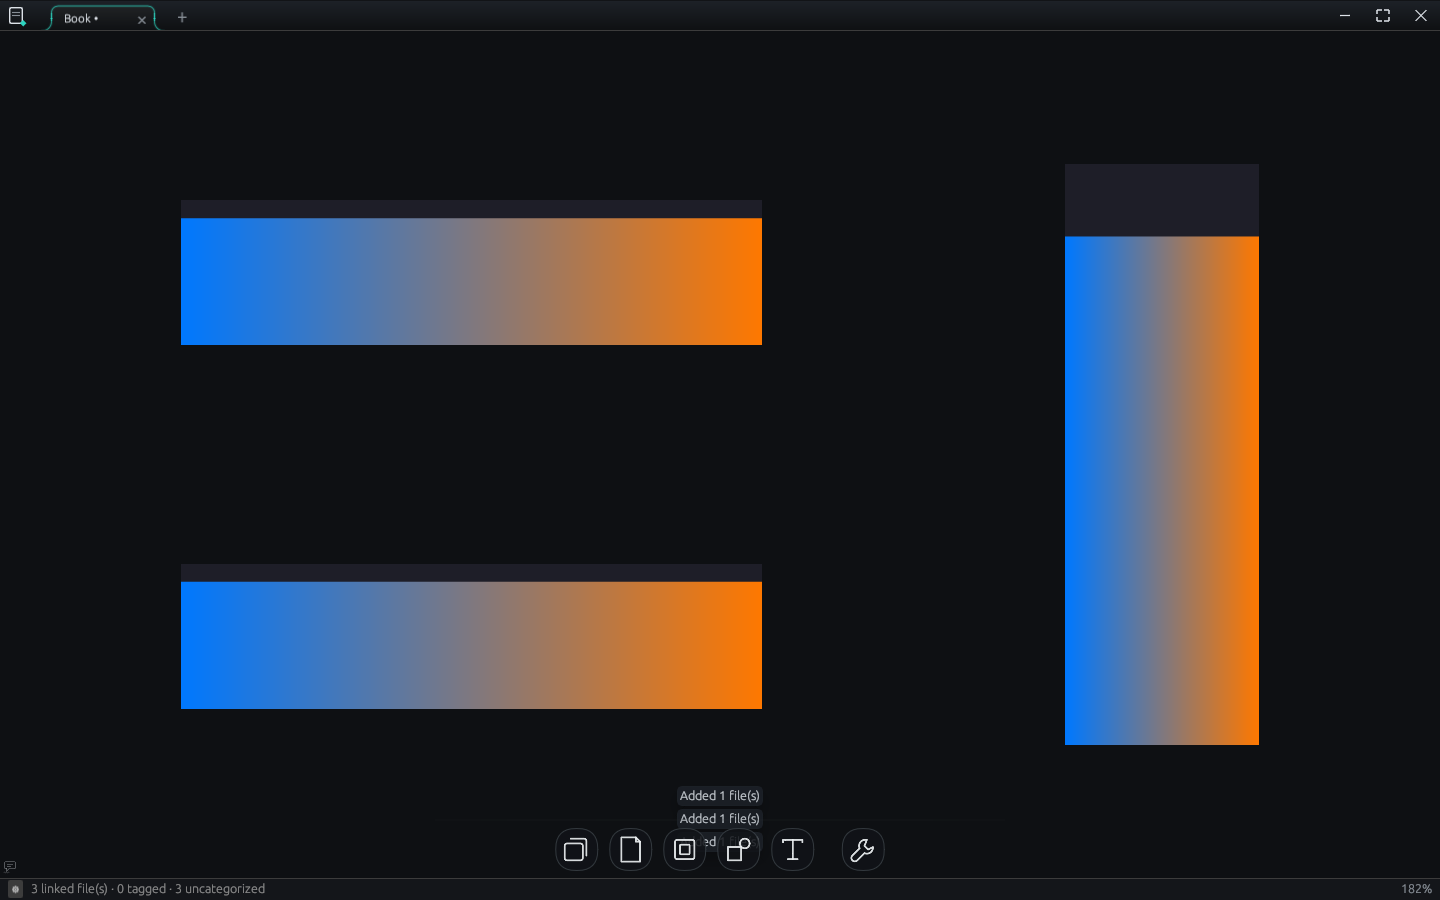
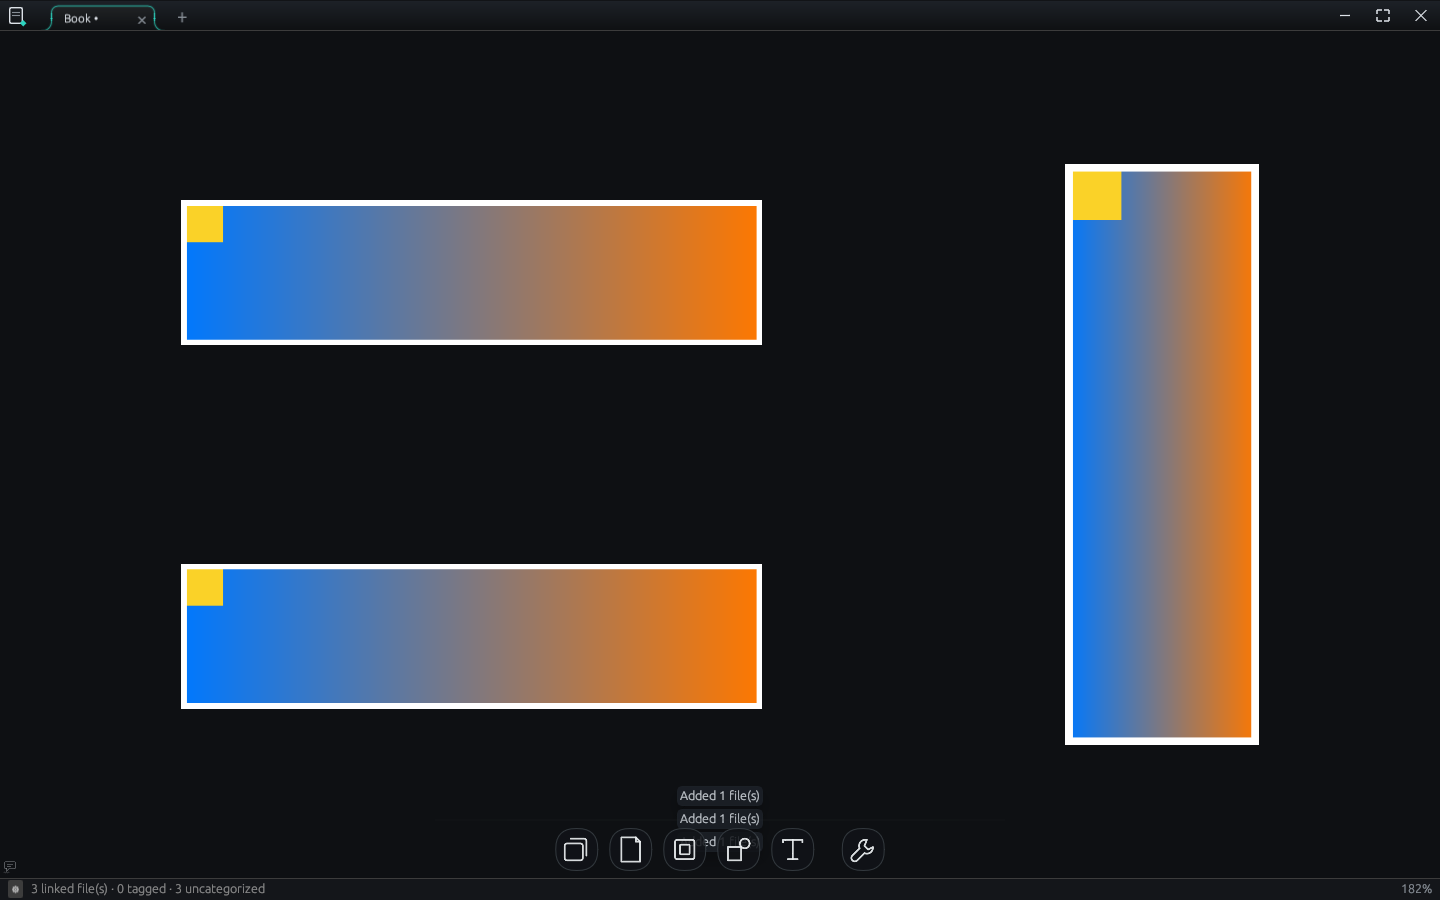
BR1 review sheet: fixture shows its full extent instead of a dark top band
The ramp fixture painted its top eighth near the board color, which read as
the picture not filling its node. A white edge and a yellow top-left marker
now show the extent and orientation. Re-shot BR1 and BR2.

Changed region(s): [[0.7188, 0.1556, 0.875, 0.84], [0.125, 0.6222, 0.5312, 0.8089], [0.125, 0.2178, 0.5312, 0.4044]]

diff --git a/apps/slate/src/app/tests/review/board.rs b/apps/slate/src/app/tests/review/board.rs
@@ -10,16 +10,22 @@ fn review_board(tag: &str) -> Harness {
     h
 }
 
-/// A left-to-right hue ramp with a dark top band, so a squashed or turned
-/// picture is obvious at a glance.
+/// A left-to-right hue ramp inside a white edge, with a yellow square in the
+/// top-left corner: the edge shows the picture reaches every side of its node,
+/// and the square shows it is not turned or mirrored. Nothing in it is dark,
+/// so no part can be mistaken for the board showing through.
 fn ramp_png(path: &std::path::Path, w: u32, h: u32) {
     if let Some(dir) = path.parent() {
         std::fs::create_dir_all(dir).unwrap();
     }
+    let edge = (w.min(h) / 25).max(3);
+    let mark = w.min(h) / 4;
     image::RgbaImage::from_fn(w, h, |x, y| {
         let t = x as f32 / w as f32;
-        if y < h / 8 {
-            image::Rgba([30, 30, 40, 255])
+        if x < edge || y < edge || x >= w - edge || y >= h - edge {
+            image::Rgba([255, 255, 255, 255])
+        } else if x < edge + mark && y < edge + mark {
+            image::Rgba([250, 210, 40, 255])
         } else {
             image::Rgba([(255.0 * t) as u8, 120, (255.0 * (1.0 - t)) as u8, 255])
         }
